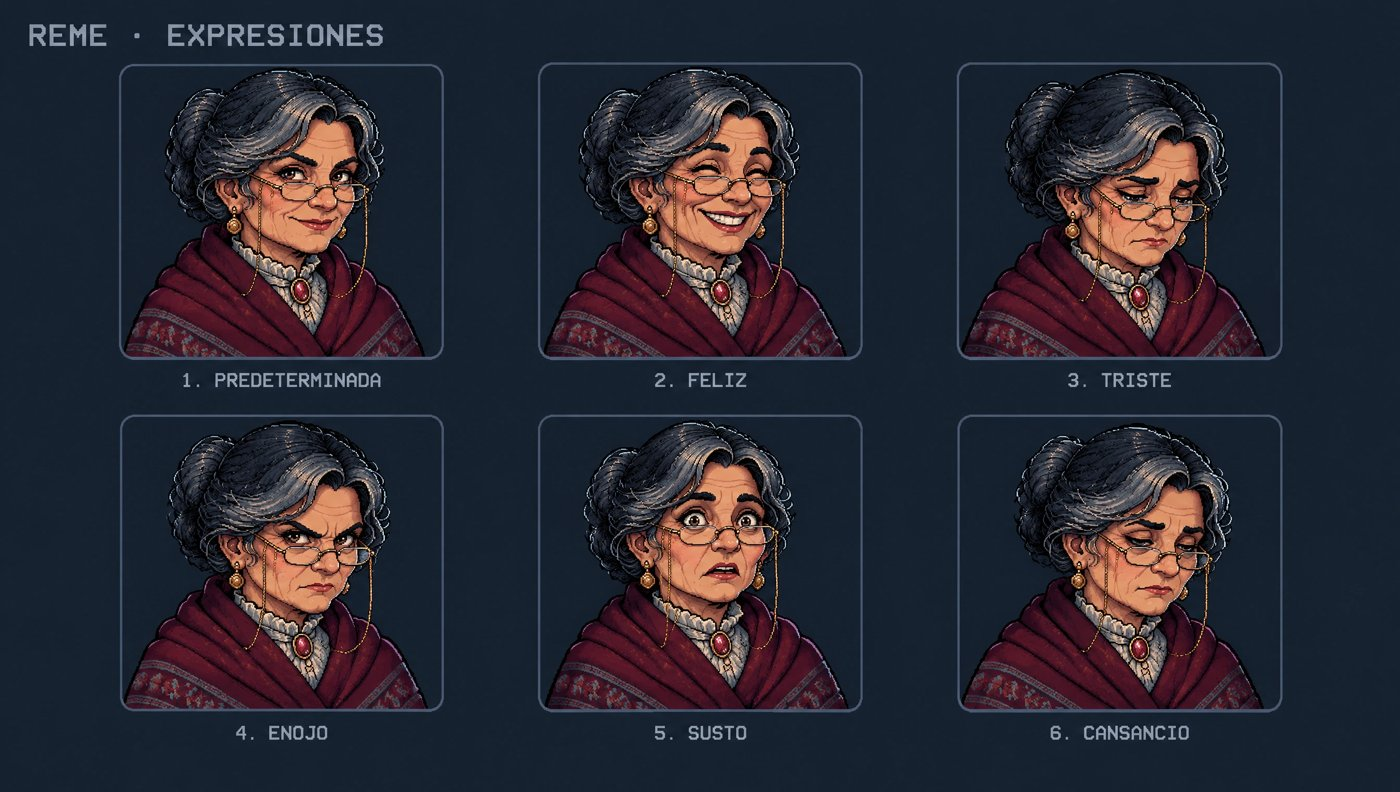
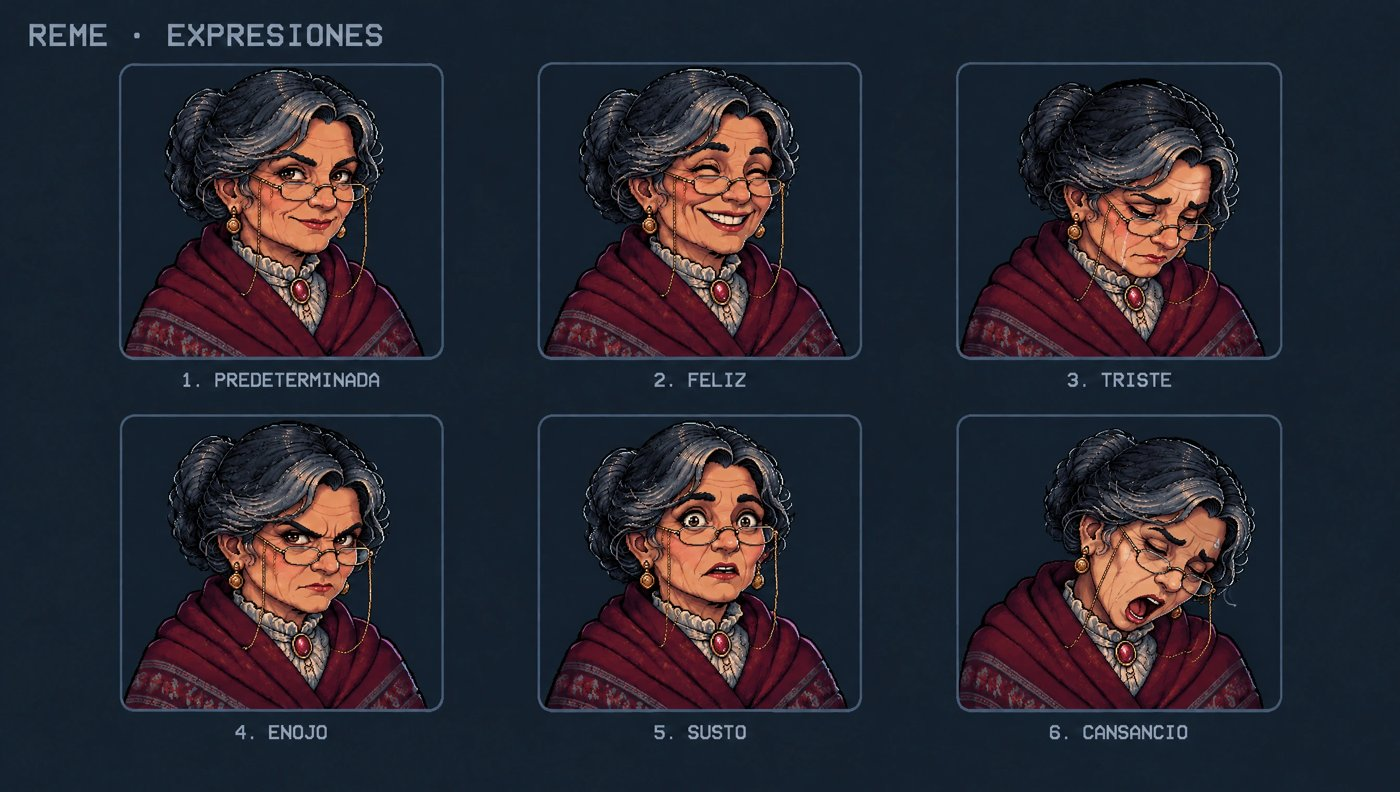
docs(arte): F0-60 rehace el modelo y las poses de Reme en chibi y corrige triste y cansancio
Modelo y poses pasan a chibi pixel art con las proporciones del sprite del
ministro. En las expresiones solo se redibujan triste (llorando) y cansancio
(bostezando). El documento 12 recoge el estilo de cada hoja.

diff --git a/studio/docs/12-direccion-de-arte.md b/studio/docs/12-direccion-de-arte.md
@@ -128,9 +128,11 @@ El juego es **horizontal (landscape)**. Catorce imágenes en `studio/assets-ref/
 
 | Hoja | Contenido |
 |---|---|
-| **Modelo** | Cuerpo entero y pose estática: de frente, de espalda, de ambos lados y en tres cuartos |
-| **Expresiones** | Seis, **iguales para todos**: la **por defecto** según su personalidad, feliz, triste, enojado, asustado y cansado |
-| **Poses** | Estático, caminando (ciclo de 4 fotogramas de lado, más de frente y de espalda) y gestos al hablar |
+| **Modelo** | **Chibi pixel art** como el sprite del ministro: cuerpo entero y pose estática, de frente, tres cuartos, ambos lados y espalda |
+| **Expresiones** | **Estilo detallado** como los retratos de diálogo. Seis, **iguales para todos**: la **por defecto** según su personalidad, feliz, triste (llorando), enojo, susto y cansancio (bostezando, no triste) |
+| **Poses** | **Chibi pixel art** de cuerpo entero: estático, caminando (ciclo de 4 fotogramas de lado, más de frente y de espalda) y gestos al hablar |
+
+**Proporciones chibi:** la cabeza ocupa cerca del 40 % de la altura, cuerpo compacto, extremidades cortas, ojos grandes y sencillos, contorno negro grueso y píxeles visibles. El modelo y las poses de un mismo personaje deben tener las mismas proporciones.
 
 **Hojas de NPC:** una por tipo (frente, espalda, un lado y dos expresiones). Los 35 tipos están en el registro del mundo (`studio/data/world.json`): Ministerio, Comisión del Éter, Consorcio Arvel, Unión, Los Faroleros, prensa, empleados, civiles, enemigos humanos y criaturas de La Fosa. Los jefes de zona quedan diferidos (⏳ F0-69).
 
